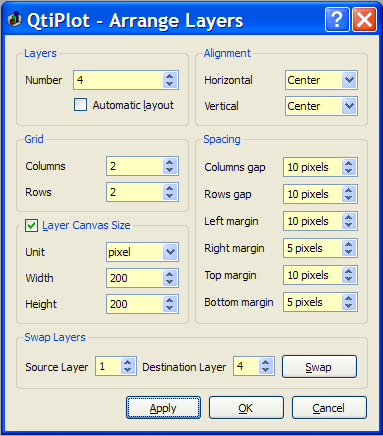
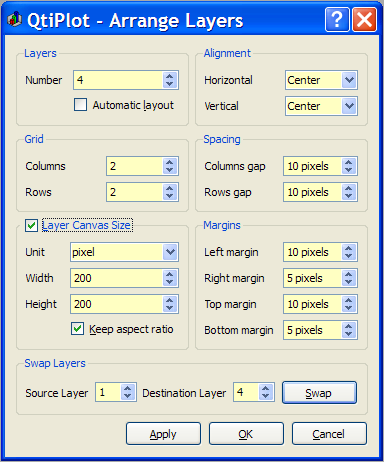
- Improved arrange layers dialog. - Fixed bug affecting arranging of layers in maximized plot windows: now the window stays maximized.

Changed region(s): [[0.0, 0.0, 1.0, 1.0]]

diff --git a/trunk/qtiplot/src/plot2D/dialogs/LayerDialog.cpp b/trunk/qtiplot/src/plot2D/dialogs/LayerDialog.cpp
@@ -119,6 +119,10 @@ LayerDialog::LayerDialog( QWidget* parent, Qt::WFlags fl )
 	boxCanvasHeight->setDecimals(6);
 	gl5->addWidget(boxCanvasHeight, 2, 1);
 
+	keepRatioBox = new QCheckBox(tr("&Keep aspect ratio"));
+	keepRatioBox->setChecked(true);
+	gl5->addWidget(keepRatioBox, 3, 1);
+
     QGroupBox *gb4 = new QGroupBox(tr("Spacing"));
 	QGridLayout *gl4 = new QGridLayout(gb4);
 	gl4->addWidget(new QLabel(tr("Columns gap")), 0, 0);
@@ -133,34 +137,34 @@ LayerDialog::LayerDialog( QWidget* parent, Qt::WFlags fl )
 	boxRowsGap->setSingleStep(5);
 	boxRowsGap->setSuffix(tr(" pixels"));
 	gl4->addWidget(boxRowsGap, 1, 1);
-	gl4->addWidget(new QLabel( tr( "Left margin" )), 2, 0);
+
+	QGroupBox *gb7 = new QGroupBox(tr("Margins"));
+	gl4 = new QGridLayout(gb7);
+	gl4->addWidget(new QLabel( tr( "Left margin" )), 0, 0);
 	boxLeftSpace = new QSpinBox();
 	boxLeftSpace->setRange(0, 1000);
 	boxLeftSpace->setSingleStep(5);
 	boxLeftSpace->setSuffix(tr(" pixels"));
-	gl4->addWidget(boxLeftSpace, 2, 1);
-	gl4->addWidget(new QLabel( tr( "Right margin" )), 3, 0);
+	gl4->addWidget(boxLeftSpace, 0, 1);
+	gl4->addWidget(new QLabel( tr( "Right margin" )), 1, 0);
 	boxRightSpace = new QSpinBox();
 	boxRightSpace->setRange(0, 1000);
 	boxRightSpace->setSingleStep(5);
 	boxRightSpace->setSuffix(tr(" pixels"));
-	gl4->addWidget(boxRightSpace, 3, 1);
-	gl4->addWidget(new QLabel( tr( "Top margin" )), 4, 0);
+	gl4->addWidget(boxRightSpace, 1, 1);
+	gl4->addWidget(new QLabel( tr( "Top margin" )), 2, 0);
 	boxTopSpace = new QSpinBox();
 	boxTopSpace->setRange(0, 1000);
 	boxTopSpace->setSingleStep(5);
 	boxTopSpace->setSuffix(tr(" pixels"));
-	gl4->addWidget(boxTopSpace, 4, 1);
-	gl4->addWidget(new QLabel( tr( "Bottom margin") ), 5, 0);
+	gl4->addWidget(boxTopSpace, 2, 1);
+	gl4->addWidget(new QLabel( tr( "Bottom margin") ), 3, 0);
 	boxBottomSpace = new QSpinBox();
 	boxBottomSpace->setRange(0, 1000);
 	boxBottomSpace->setSingleStep(5);
 	boxBottomSpace->setSuffix(tr(" pixels"));
-	gl4->addWidget(boxBottomSpace, 5, 1);
-
-	QVBoxLayout *vbox1 = new QVBoxLayout();
-	vbox1->addWidget(GroupGrid);
-	vbox1->addWidget(GroupCanvasSize);
+	gl4->addWidget(boxBottomSpace, 3, 1);
+	gl4->setRowStretch(4, 1);
 
 	buttonApply = new QPushButton(tr( "&Apply" ));
 	buttonOk = new QPushButton(tr( "&OK" ));
@@ -189,9 +193,11 @@ LayerDialog::LayerDialog( QWidget* parent, Qt::WFlags fl )
 	QGridLayout *gl6 = new QGridLayout();
 	gl6->addWidget(gb1, 0, 0);
 	gl6->addWidget(gb2, 0, 1);
-	gl6->addLayout(vbox1, 1, 0);
+	gl6->addWidget(GroupGrid, 1, 0);
 	gl6->addWidget(gb4, 1, 1);
-	gl6->setRowStretch(2, 1);
+	gl6->addWidget(GroupCanvasSize, 2, 0);
+	gl6->addWidget(gb7, 2, 1);
+	gl6->setRowStretch(3, 1);
 
 	QVBoxLayout *vbox2 = new QVBoxLayout(this);
 	vbox2->addLayout(gl6);
@@ -205,6 +211,8 @@ LayerDialog::LayerDialog( QWidget* parent, Qt::WFlags fl )
 	connect( buttonCancel, SIGNAL( clicked() ), this, SLOT( reject() ) );
 	connect( fitBox, SIGNAL( toggled(bool) ), this, SLOT(enableLayoutOptions(bool) ) );
 	connect(unitBox, SIGNAL(activated(int)), this, SLOT(updateSizes(int)));
+	connect(boxCanvasWidth, SIGNAL(valueChanged (double)), this, SLOT(adjustCanvasHeight(double)));
+	connect(boxCanvasHeight, SIGNAL(valueChanged (double)), this, SLOT(adjustCanvasWidth(double)));
 }
 
 void LayerDialog::enableLayoutOptions(bool ok)
@@ -412,4 +420,26 @@ void LayerDialog::updateSizes(int unit)
 
 	boxCanvasWidth->setValue(convertFromPixels(multi_layer->layerCanvasSize().width(), (FrameWidget::Unit)unit, 0));
 	boxCanvasHeight->setValue(convertFromPixels(multi_layer->layerCanvasSize().height(), (FrameWidget::Unit)unit, 1));
+
+	aspect_ratio = boxCanvasWidth->value()/boxCanvasHeight->value();
+}
+
+void LayerDialog::adjustCanvasHeight(double width)
+{
+	if (keepRatioBox->isChecked()){
+		boxCanvasHeight->blockSignals(true);
+		boxCanvasHeight->setValue(width/aspect_ratio);
+		boxCanvasHeight->blockSignals(false);
+	} else
+		aspect_ratio = width/boxCanvasHeight->value();
+}
+
+void LayerDialog::adjustCanvasWidth(double height)
+{
+	if (keepRatioBox->isChecked()){
+		boxCanvasWidth->blockSignals(true);
+		boxCanvasWidth->setValue(height*aspect_ratio);
+		boxCanvasWidth->blockSignals(false);
+	} else
+		aspect_ratio = boxCanvasWidth->value()/height;
 }

diff --git a/trunk/qtiplot/src/plot2D/MultiLayer.cpp b/trunk/qtiplot/src/plot2D/MultiLayer.cpp
@@ -2,7 +2,7 @@
     File                 : MultiLayer.cpp
     Project              : QtiPlot
     --------------------------------------------------------------------
-    Copyright            : (C) 2006 - 2009 by Ion Vasilief
+	Copyright            : (C) 2006 - 20010 by Ion Vasilief
     Email (use @ for *)  : ion_vasilief*yahoo.fr
     Description          : Multi layer widget
 
@@ -660,7 +660,7 @@ bool MultiLayer::arrangeLayers(bool fit, bool userSize)
 				return false;
 			}
 		}
-	} else {//resize window to fit new dimensions of the layers
+	} else if (!this->isMaximized()){//resize window to fit new dimensions of the layers
 		this->showNormal();
 		QSize size = d_canvas->childrenRect().size();
 

diff --git a/trunk/qtiplot/src/plot2D/dialogs/LayerDialog.h b/trunk/qtiplot/src/plot2D/dialogs/LayerDialog.h
@@ -55,6 +55,8 @@ protected slots:
 	void enableLayoutOptions(bool ok);
 	void swapLayers();
 	void updateSizes(int unit);
+	void adjustCanvasHeight(double width);
+	void adjustCanvasWidth(double height);
 
 private:
 	int convertToPixels(double w, FrameWidget::Unit unit, int dimension);
@@ -75,6 +77,9 @@ private:
 	QCheckBox *fitBox;
 	QComboBox *alignHorBox, *alignVertBox;
 	QComboBox *unitBox;
+	QCheckBox *keepRatioBox;
+
+	double aspect_ratio;
 };
 
 #endif
